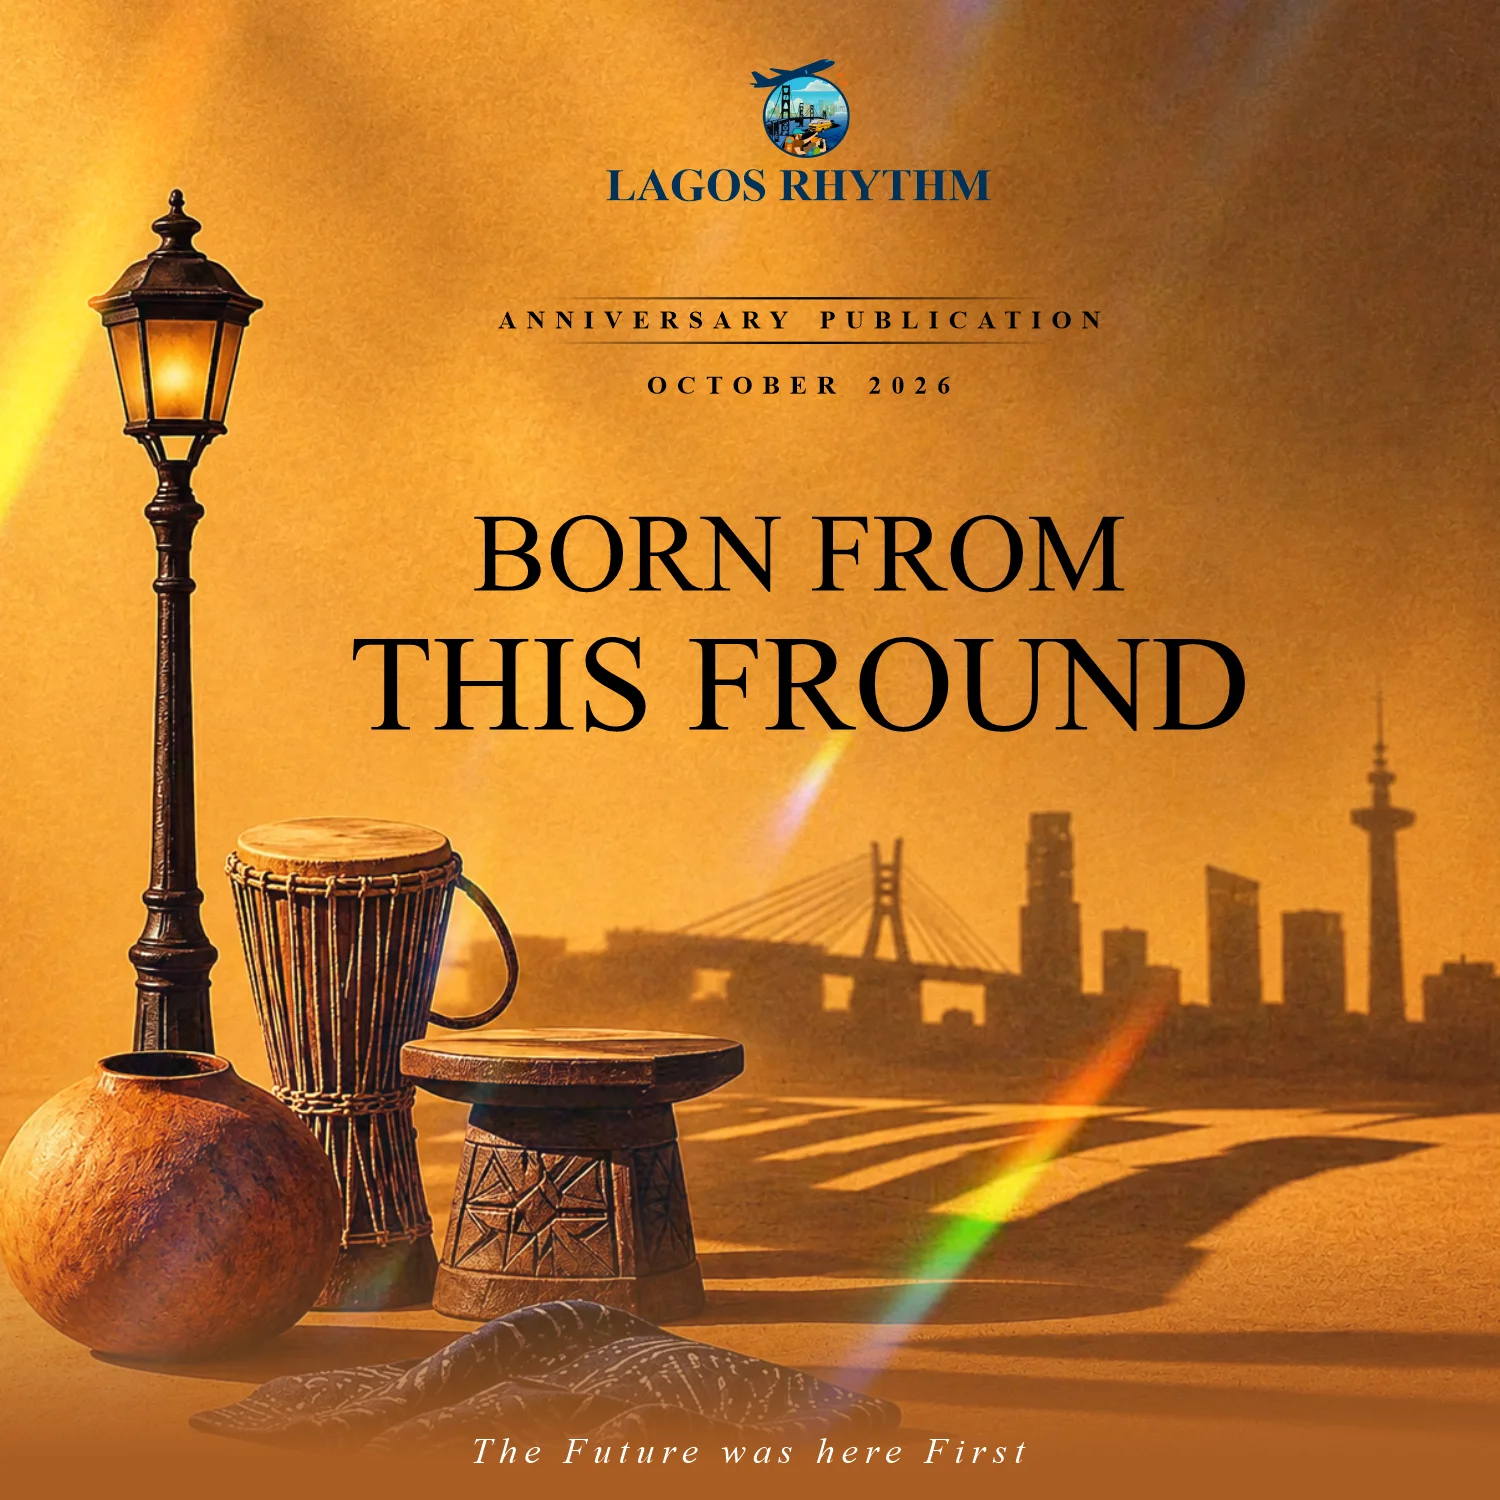
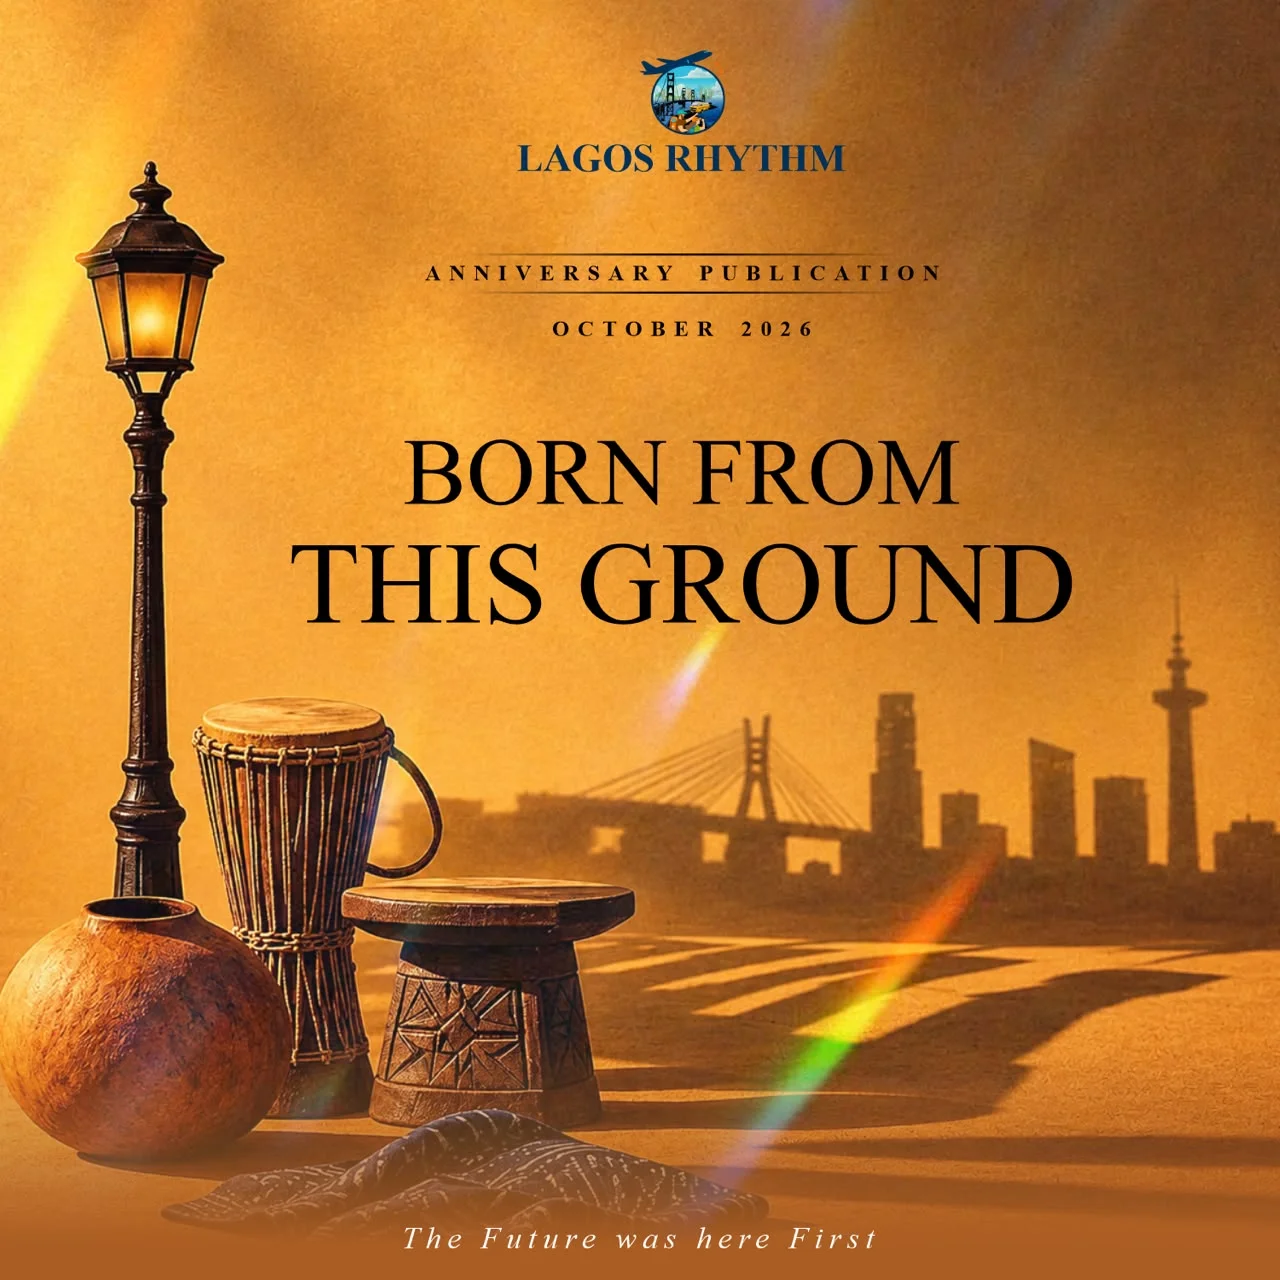
Anniversary: swap hero to updatedHero, drop 3.7MB PNG; trim visa sentences from ch.6
- hero: Resources/updatedHero.jpg -> assets/img/hero.jpg (1280x1280, 222KB)
  plus generated hero.webp (168KB); removes hero.png (3.4MB) and the
  unreferenced hero-portal-* renders from the original edition
- index.html: img src, og:image, twitter:image and preload repointed;
  preload now targets the webp so it matches what <picture> actually selects
- optimise-images.mjs: hero job targets hero.jpg at 1280px
- ch.06: remove the travel-cost /  e-visa sentences (page weight 111.4 -> 107.6 MB)

Changed region(s): [[0.2188, 0.4062, 0.8438, 0.5], [0.5312, 0.0938, 0.5625, 0.125]]

diff --git a/Anniversary/site/index.html b/Anniversary/site/index.html
@@ -15,14 +15,14 @@
 <meta property="og:site_name" content="Lagos Rhythm">
 <meta property="og:title" content="Born From This Ground — Lagos Rhythm, October 2026">
 <meta property="og:description" content="An anniversary publication by Lagos Rhythm. Innovation is real, and it is rarely the start of anything.">
-<meta property="og:image" content="assets/img/hero.png">
+<meta property="og:image" content="assets/img/hero.jpg">
 <meta property="og:image:alt" content="Born From This Ground — Lagos Rhythm Anniversary Publication cover">
 <meta property="og:locale" content="en_NG">
 <meta name="twitter:card" content="summary_large_image">
 <meta name="twitter:site" content="@LagosRhythm">
 <meta name="twitter:title" content="Born From This Ground — Lagos Rhythm, October 2026">
 <meta name="twitter:description" content="An anniversary publication by Lagos Rhythm. Innovation is real, and it is rarely the start of anything.">
-<meta name="twitter:image" content="assets/img/hero.png">
+<meta name="twitter:image" content="assets/img/hero.jpg">
 
 <link rel="icon" href="favicon.ico" sizes="any">
 <link rel="icon" type="image/png" sizes="32x32" href="assets/img/favicon-32x32.png">
@@ -31,7 +31,7 @@
 
 <link rel="preconnect" href="https://fonts.googleapis.com">
 <link rel="preconnect" href="https://fonts.gstatic.com" crossorigin>
-<link rel="preload" as="image" href="assets/img/hero.png">
+<link rel="preload" as="image" type="image/webp" href="assets/img/hero.webp">
 <link rel="stylesheet" href="https://fonts.googleapis.com/css2?family=Hanken+Grotesk:ital,wght@0,300..900;1,300..900&amp;family=Newsreader:ital,opsz,wght@0,6..72,200..800;1,6..72,200..800&amp;display=swap">
 <link rel="stylesheet" href="assets/css/styles.css">
 <script>document.documentElement.classList.add("js");</script>
@@ -109,8 +109,8 @@
           <picture>
             <source srcset="assets/img/hero.webp" type="image/webp">
             <img
-              src="assets/img/hero.png"
-              width="1500" height="1500"
+              src="assets/img/hero.jpg"
+              width="1280" height="1280"
               alt="Born From This Ground — Lagos Rhythm Anniversary Publication cover"
               fetchpriority="high" decoding="async">
           </picture>
@@ -325,7 +325,7 @@
 
       <div class="prose prose--essay reveal">
         <p>A photograph of a Lagos street at dusk keeps the light and loses the rest: the long, warm greetings traded across a doorway, the joke that sets a whole bus laughing, the music drifting out of a shop, the smell of suya on the grill. A written description can name each of those things, but it names them in a row, but on the street they arrive together. Both are honest attempts, but neither closes the distance between a person and a place they cannot reach.</p>
-        <p>That distance is real, and mostly practical. A trip to Lagos from Toronto, London or Houston takes money, time and paperwork. A tourist e-visa alone costs a visitor from the United States $180 before a flight is booked. For some international visitors, the cost of obtaining a Nigerian tourist visa is accounted for before booking flights and accommodation. More often than not, these costs leave a place reachable only by travel unseen by people who care about it.</p>
+        <p>That distance is real, and mostly practical. For some international visitors, the cost of obtaining a Nigerian tourist visa is accounted for before booking flights and accommodation. More often than not, these costs leave a place reachable only by travel unseen by people who care about it.</p>
         <p>Virtual tourism changes the arithmetic. One tour, made once with the people who know the place, can be walked by many people on the same afternoon. It can be shared with a parent who can no longer travel, or brought into a classroom. And it keeps what a photograph drops: the order in which a person moves through a place, the sounds around a moment, a story told by the one who lived it. It is more effective because it holds more of the place, and more efficient because it travels farther for less.</p>
         <p>A virtual tour complements being there in person; it does not compete with it. For someone who can make the trip, it is a way in, and they arrive already knowing what to look for. For someone who cannot, or not yet, it is a genuine encounter with the place. Lagos Rhythm’s <strong>digital experience player</strong> is made for both. It widens the circle of people who get to meet the place.</p>
       </div>
